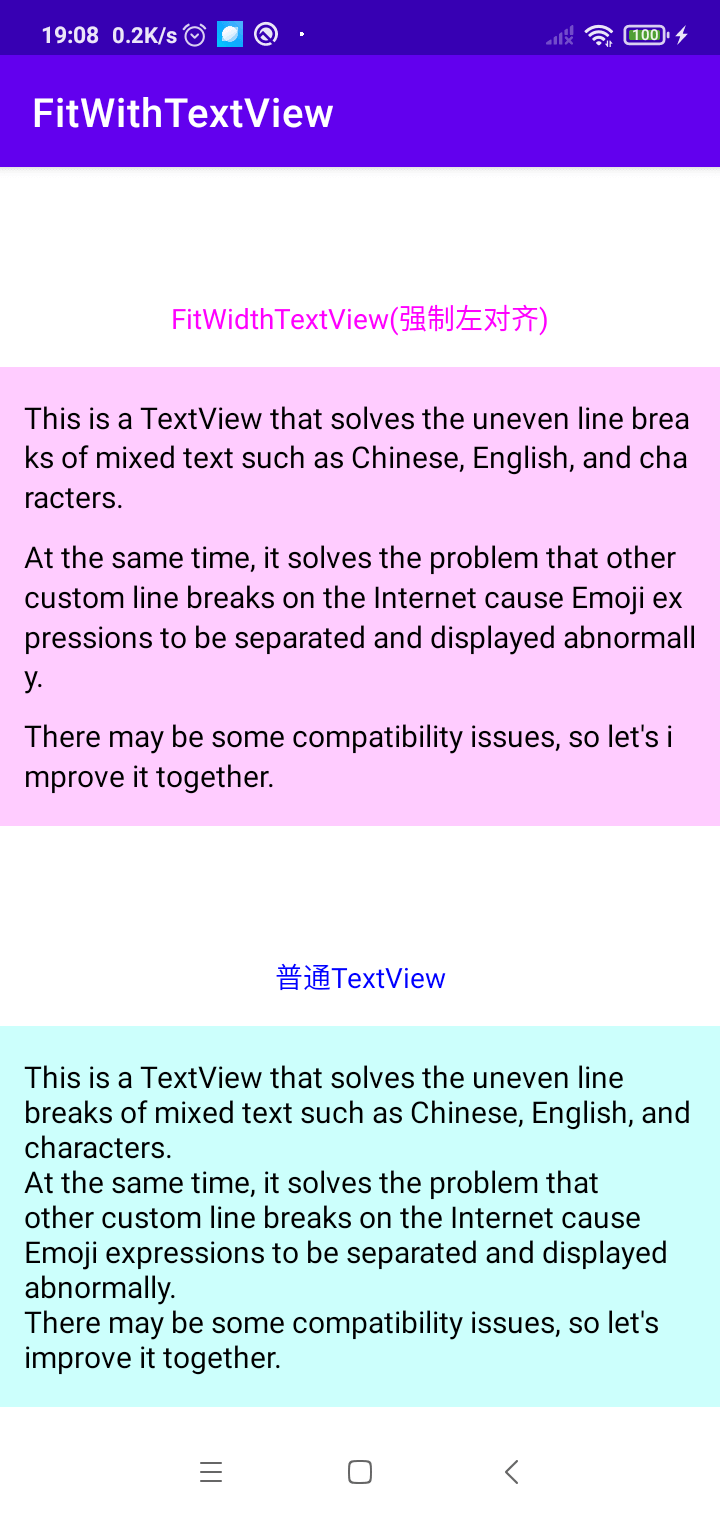
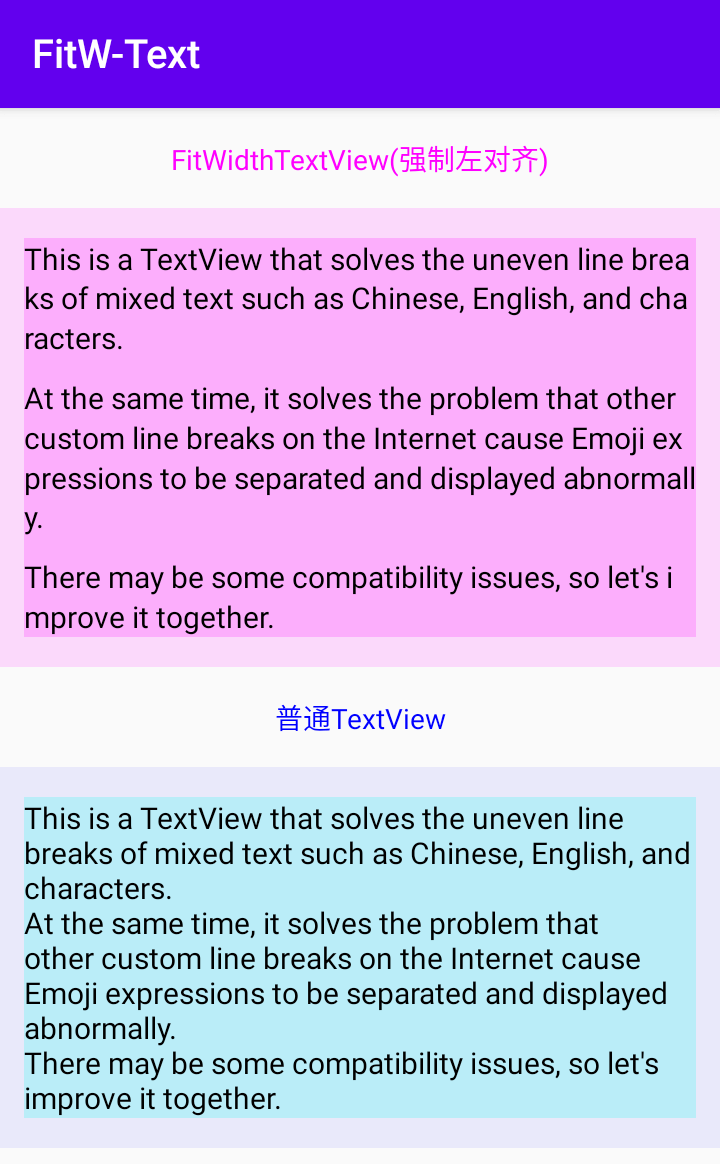
演示图替换

diff --git a/README.md b/README.md
@@ -9,7 +9,7 @@
 感谢[LineBreakTextView](https://github.com/changer0/LineBreakTextView)提供参考  
 感谢[MTextView](https://github.com/yellowcath/MTextView)提供参考  
 //================================================================//
-##  纯中文(和原TextView无区别)
+##  纯中文(貌似和原TextView无区别)
 ![所有效果](https://github.com/Khaos116/FitWidthTextView/blob/master/image/1.png)
 
 //================================================================//
@@ -17,9 +17,9 @@
 ![聊天Emoji](https://github.com/Khaos116/FitWidthTextView/blob/master/image/2.png)
 
 //================================================================//
-##  纯Emoji(和原TextView无区别)
+##  纯Emoji(貌似和原TextView无区别)
 ![封面和压缩](https://github.com/Khaos116/FitWidthTextView/blob/master/image/3.png)
 
 //================================================================//
-##  混合(貌似也只有英文会换行)
+##  混合(解决换行问题)
 ![高斯模糊](https://github.com/Khaos116/FitWidthTextView/blob/master/image/4.png)
